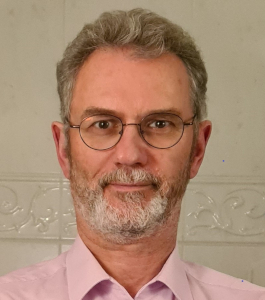
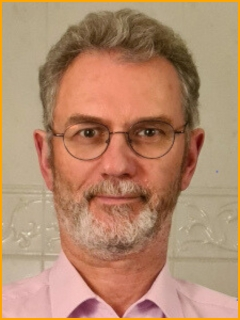
neue Profilbilder mit Rahmen - wegen CI

diff --git a/Website/content/unser-team/index.md b/Website/content/unser-team/index.md
@@ -24,7 +24,7 @@ Dienstleistungszentrum im Blick auf grundlegende Fragen evangelischen Bildungsha
 Jens ist Direktor des Comenius-Institutes und verantwortet FOERBICO.
 Zudem ist er für die Kommunikation mit dem Projektträger zuständig.
 
-![Portrait Jörg Lohrer](/hello-world/joerg-lohrer.jpg)
+![Portrait Jörg Lohrer](JoergLohrer.jpg)
 
 **Jörg Lohrer**
 
@@ -32,7 +32,7 @@ Jörg ist Projektkoordinator und unterstützt das Community-Management.
 Er verfügt durch seine Tätigkeit im Leitungsteam von rpi-virtuell und beim
 relilab bereits über langjährige Erfahrung in der Netzwerkarbeit.
 
-![Portrait Gina Buchwald-Chassée](/hello-world/gina-buchwald-chassee.jpg)
+![Portrait Gina Buchwald-Chassée](GinaBuchwaldChassee.jpg)
 
 **Gina Buchwald-Chassée**
 
@@ -40,7 +40,7 @@ Gina ist studierte Kommunikationswissenschaftlerin und unterstützt das Projekt
 im Community-Management und ist für die Öffentlichkeitsarbeit verantwortlich.
 Sie hat zuvor das Netzwerk schule-evangelisch-digital koordiniert.
 
-![Portrait Ludger Sicking](/hello-world/ludger-sicking.jpg)
+![Portrait Ludger Sicking](LudgerSicking.jpg)
 
 **Ludger Sicking**
 
@@ -60,7 +60,7 @@ Inhalte in einer digitalisierten Welt zu verbessern. Schwerpunkte liegen auf der
 Entwicklung neuer didaktischer Konzepte und der Förderung einer reflektierten Mediennutzung
 im Kontext der religiösen Bildung.
 
-![Portrait Jörg Lohrer](VieraPirker.jpg)
+![Portrait Viera Pirker](VieraPirker.jpg)
 
 **Prof. Dr. Viera Pirker**
 
@@ -71,7 +71,7 @@ Religion in einer zunehmend digitalisierten und medial geprägten Welt vermittel
 werden kann. Prof. Dr. Pirker ist zudem in zahlreichen Forschungsprojekten und Publikationen
 aktiv.
 
-![Portrait Jörg Lohrer](/hello-world/laura-moessle.jpg)
+![Portrait Laura Mößle](LauraMoessle.jpg)
 
 **Dr. Laura Mößle**
 
@@ -92,7 +92,7 @@ didaktischer Modelle und Methoden sowie der Forschung zu religiösen Lernprozess
 Studierende auf eine reflektierte und praxisnahe Tätigkeit im Religionsunterricht vorzubereiten
 und zur Weiterentwicklung dieses Bildungsbereichs beizutragen.
 
-![Portrait Jörg Lohrer](ManfredPirner.jpg)
+![Portrait Manfred Pirner](ManfredPirner.jpg)
 
 **Prof. Dr. Manfred Pirner**
 
@@ -103,7 +103,7 @@ beschäftigt er sich intensiv mit Fragen der Religionspädagogik in pluralistisc
 und der Rolle von Religion im öffentlichen Raum. Er engagiert sich auch in der Entwicklung von
 innovativen didaktischen Ansätzen für den Religionsunterricht.
 
-![Portrait Jörg Lohrer](/hello-world/phillip-angelina.jpg)
+![Portrait Phillip Angelina](PhillipAngelina.jpg)
 
 **Phillip Angelina**
 
